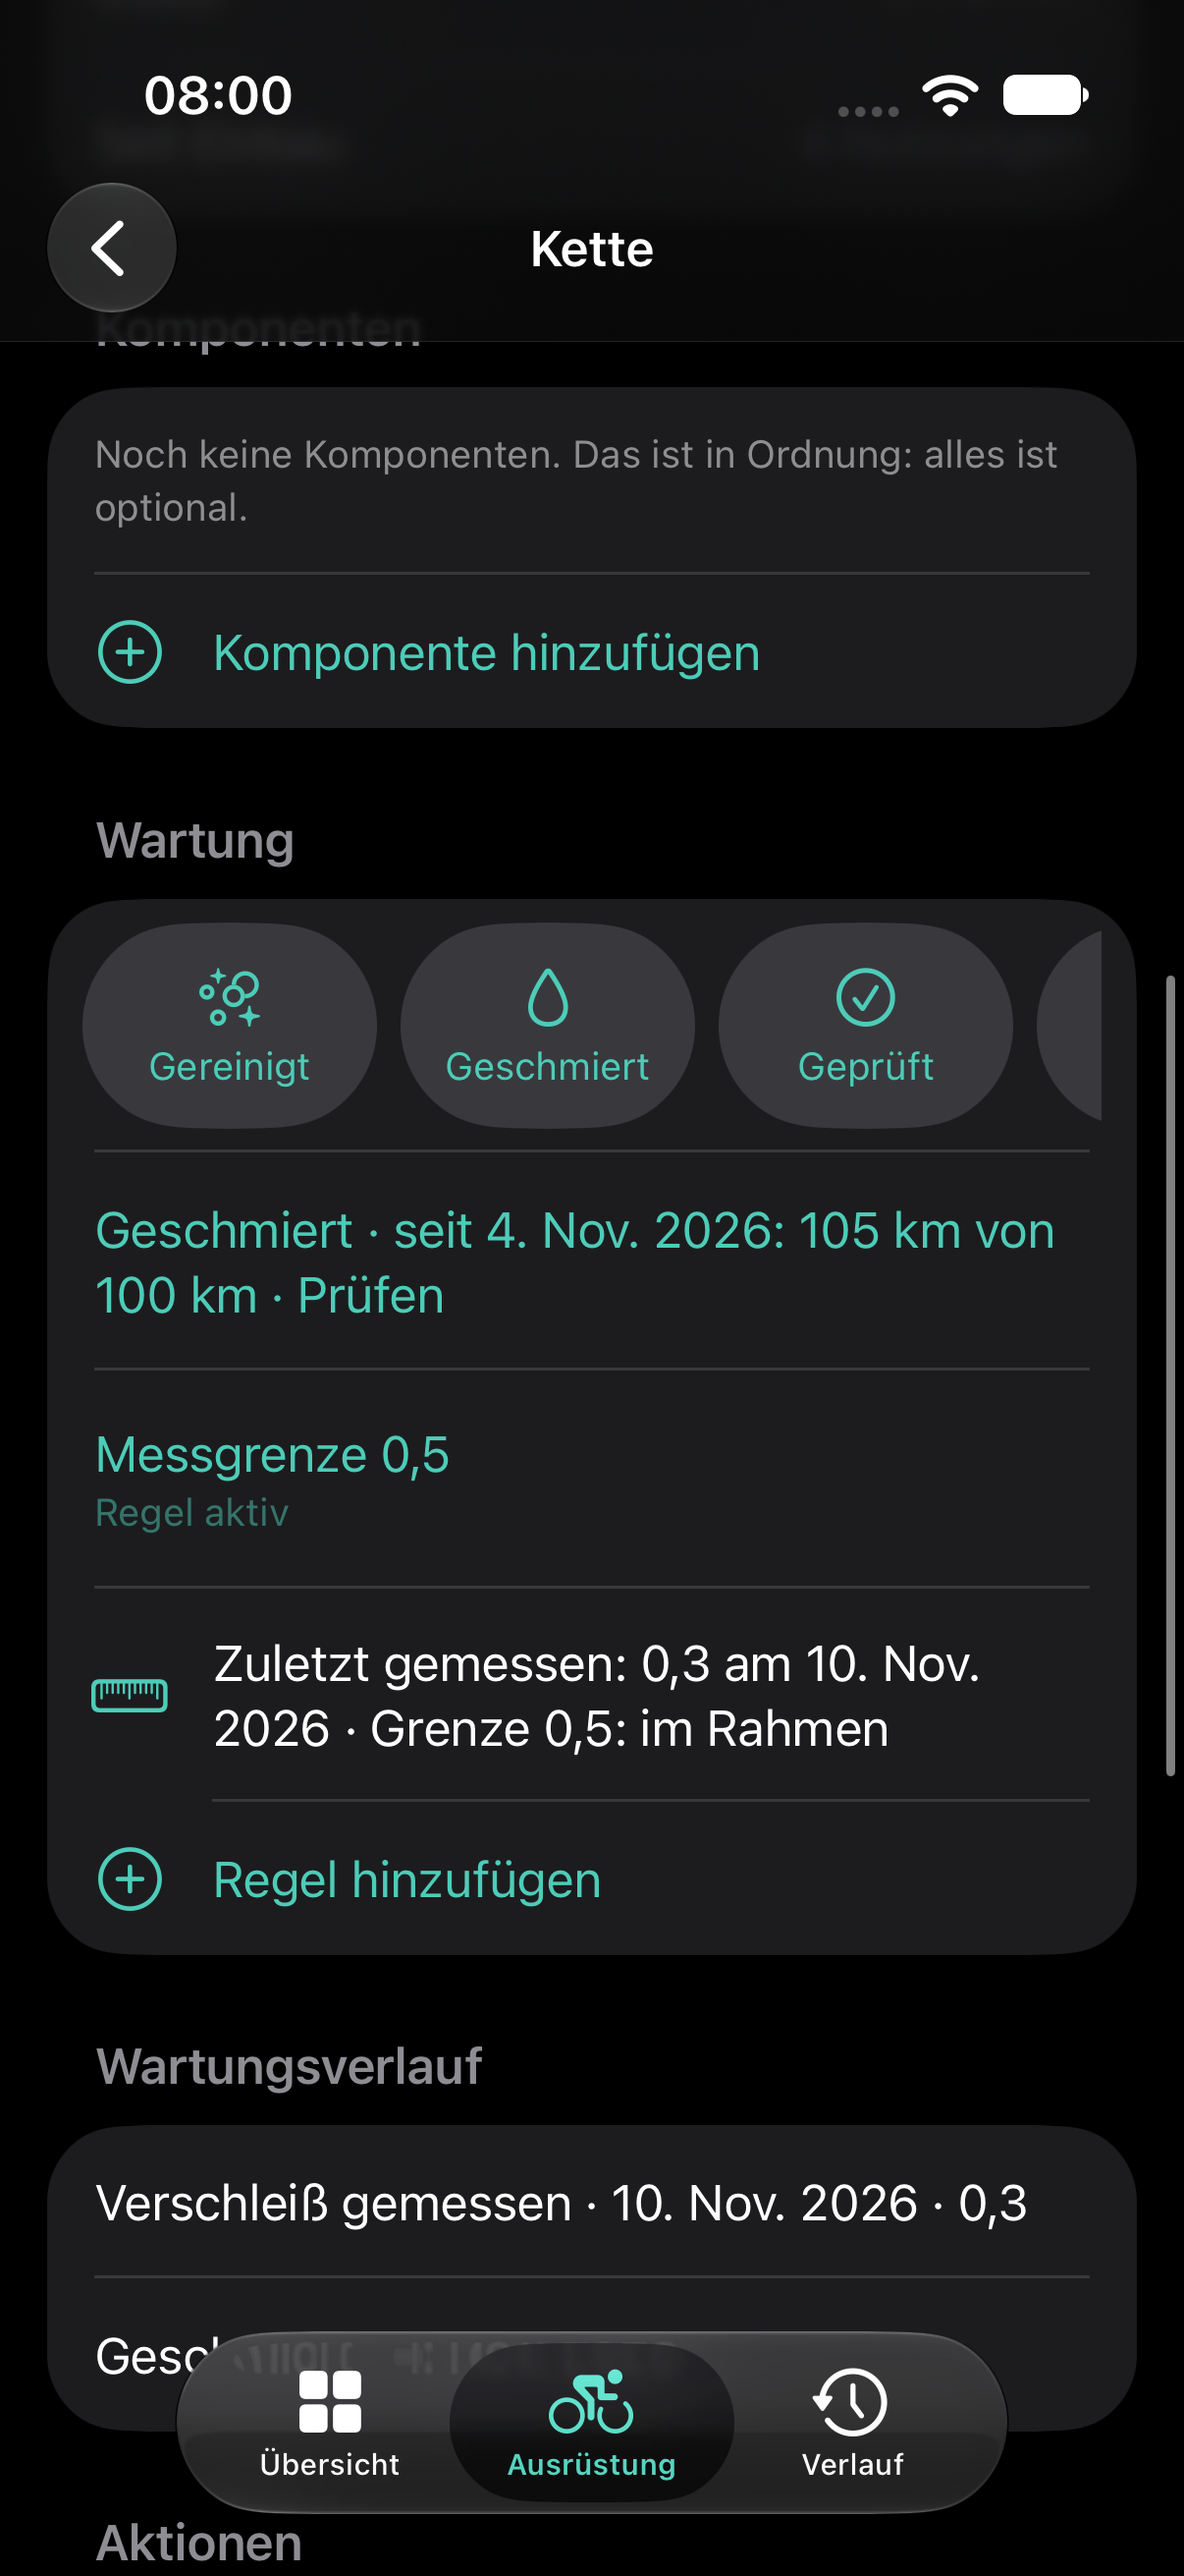
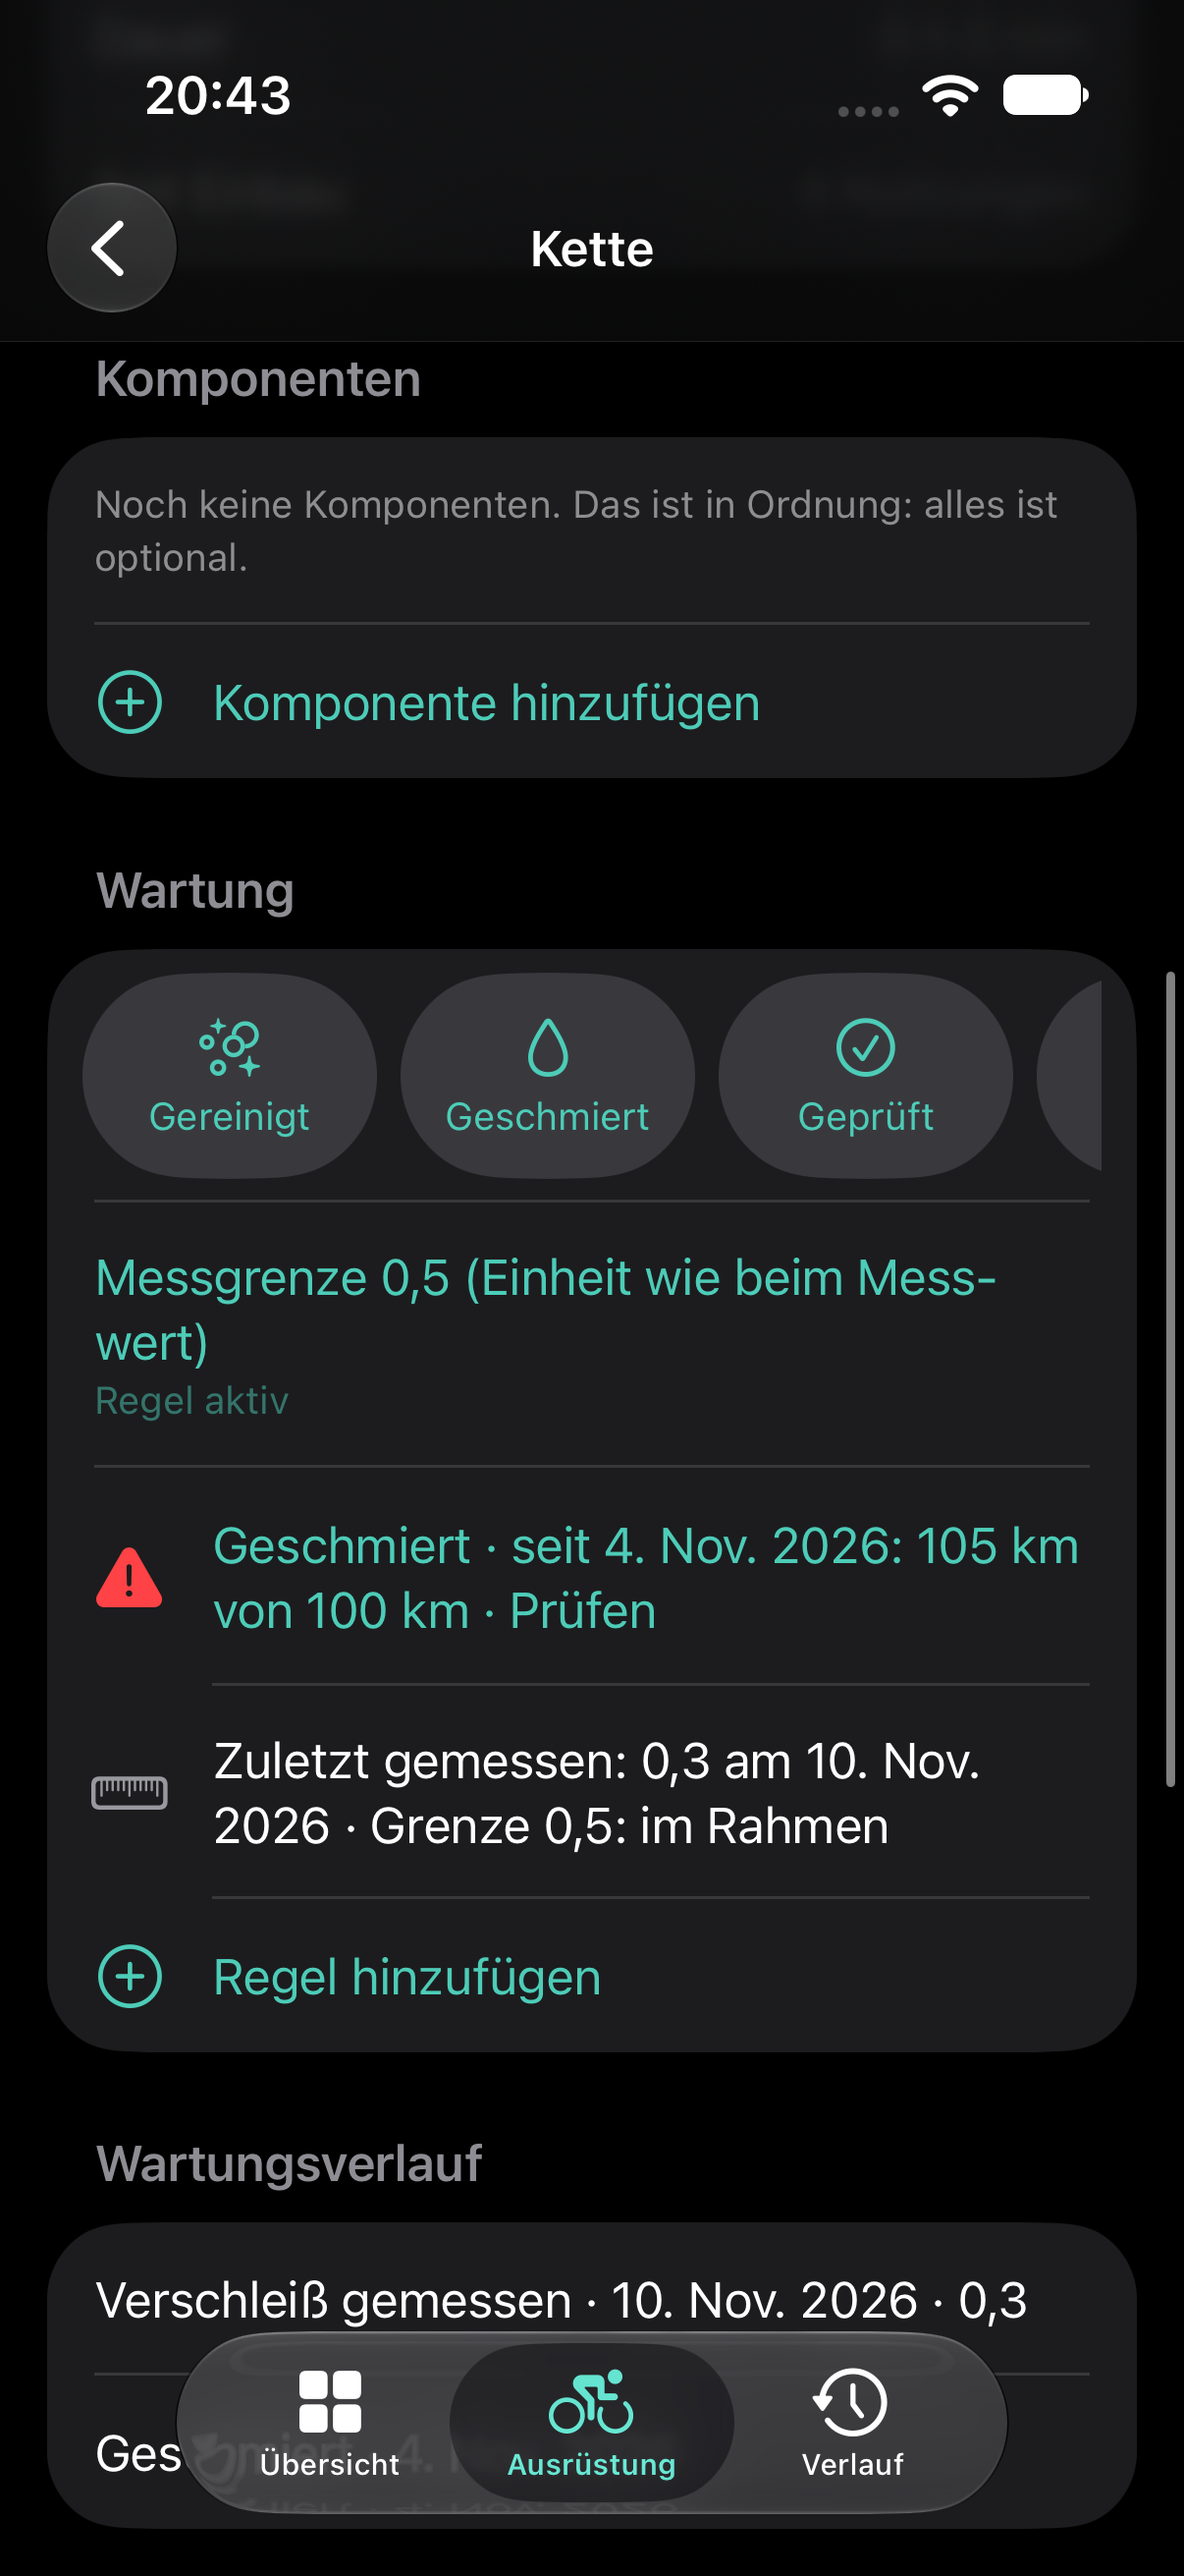
M5-Befunde: Screenshots hell/dunkel (Warnfarbe, Messgrenze, verschachtelter Pfad) und STATUS; TestFlight-Vorbereitung dokumentiert

Changed region(s): [[0.0307, 0.1236, 0.9818, 1.0], [0.1227, 0.0309, 0.2454, 0.0618], [0.9511, 0.2471, 0.9818, 0.278]]

diff --git a/AppUITests/ScreenshotUITests.swift b/AppUITests/ScreenshotUITests.swift
@@ -58,6 +58,20 @@ final class ScreenshotUITests: XCTestCase {
 
     /// M5: Komponenten, Wartung, Regel-/Messwert-Status, Hinweise (hell/dunkel stellt der Aufrufer ein).
     @MainActor
+    func testNestedScreens() {
+        let tag = ProcessInfo.processInfo.environment["SCREENSHOT_TAG"] ?? "light"
+        let app = launch("nested")
+        app.tabBars.buttons["Ausrüstung"].tapWhenReady()
+        app.buttons["gear.Canyon Endurace"].tapWhenReady()
+        XCTAssertTrue(app.buttons["component.Laufrad"].waitForExistence(timeout: 8))
+        app.tapRevealed(app.buttons["component.Laufrad"])
+        app.tapRevealed(app.buttons["component.Reifen"])
+        XCTAssertTrue(app.element(id: "installedIn").waitForExistence(timeout: 8))
+        XCTAssertTrue(app.element(id: "installedIn").label.contains("Canyon Endurace › Laufrad"))
+        shot(app, "\(tag)-m5-6-verschachtelt-pfad")
+    }
+
+    @MainActor
     func testMaintenanceScreens() {
         let tag = ProcessInfo.processInfo.environment["SCREENSHOT_TAG"] ?? "light"
         let app = launch("maintenance")

diff --git a/docs/STATUS.md b/docs/STATUS.md
@@ -1,7 +1,7 @@
 # Status und Übergabe
 
 **Stand:** 24.11.2026 · Quelle der Wahrheit für den Arbeitsstand, bei jeder Änderung mitpflegen.
-**Name: Eingelaufen** (Bundle-ID `de.linolaske.eingelaufen`). Kein App-Store-Connect-Eintrag, keine App-ID im Portal, keine Signierung mit Team (nur lokal für den Simulator).
+**Name: Eingelaufen** (Bundle-ID `de.linolaske.eingelaufen`). Internes TestFlight vorbereitet (24.11.): signiertes Archiv baut (`scripts/archive.sh`, Team-ID nur in gitignorierter `.signing.local`), Icon, Privacy Manifest, Export-Compliance (`ITSAppUsesNonExemptEncryption=NO`). **App-Eintrag in App Store Connect fehlt noch: legt Lino an (Frage auf Karte 45F13FE1).** Upload nur über `tools/testflight-upload.sh` nach Freigabe des Brains.
 
 ## Entscheidungen von Lino (21.11.2026)
 - **E-02:** Deployment Target **iOS 26+** (Swift 6, aktuelle SwiftData/ActivityKit).
@@ -19,6 +19,12 @@
 | App (M2) | **XcodeGen-Projekt `Eingelaufen`** (`project.yml`, iOS 26, Swift 6, SwiftUI/SwiftData): `SchemaV1` mit 18 Entitäten, `PersistenceActor` als einziger Schreiber, Outbox (at-least-once), Ausrüstung anlegen/umbenennen/einlagern/archivieren, manuelle Aktivität mit Zuordnung, Onboarding (3 Schritte, Health „Später“), 3 Tabs + Einstellungen. **App-Tests 40 in 7 Suiten grün, UI-Tests 10 grün (9 Abläufe + Screenshot-Lauf)**, Screenshots hell/dunkel/XXL in `docs/screenshots/m2/` angesehen. Aufruf: `scripts/test.sh core\|app\|ui`, `scripts/screenshots.sh`. |
 | M5 Komponenten und Wartung (24.11.) | **Kern** (`ComponentPlanner`, `QuickAction`/`MaintenanceEntry`, `MaintenanceEvaluator`): 207 Kern-Tests grün, T-02 im Kern und in der Persistenz (rückdatierter Tausch == Neuaufbau). **App**: Befehle im `PersistenceActor` (Komponente anlegen/montieren/ausbauen/umbauen/ersetzen, Wartung, Regeln), 52 App-Tests grün. **UI**: Komponenten-/Wartungsbereich im Detail (7 Schnellaktionen, Regeln, drei getrennte Statusarten, frühere Komponenten), Hinweise (max. 3) auf der Übersicht; `MaintenanceUITests` geschrieben; alle 10 Wartungs-UI-Tests grün, UI-Suite komplett **21 Tests grün** (24.11.). Screenshots hell/dunkel in `docs/screenshots/m5/` angesehen (`scripts/screenshots_m5.sh`). Abnahme durch Lino offen (Review auf der Karte). |
 | Board | Todolino-Unterprojekt `1F2204B9-850F-4A39-8A56-7232BE9C754F`, Repo-Schlüssel `local/sportausruestung` |
+
+## M5-Befunde (24.11., behoben)
+- Warnfarbe überfällig: rot/orange immer mit Symbol und Text (`DisplayNames.statusStyle`).
+- Verschachtelte Komponenten: „Verbaut in“ zeigt den Weg (`InstallationGraph.ancestors`), Nutzung läuft über alle Ebenen (App-Test + UI-Test, Fixture `nested`).
+- Einheit der Messgrenze: Text „Einheit wie beim Messwert“.
+- Stand: Kern 208, App 56, UI 22 grün; CI grün.
 
 ## Nächste Schritte
 1. **M1 `GearCore`**: Kern fertig, Abnahme durch Lino steht aus (Board M1/M1a/M1c). Bekannte Grenzen: der Reconciler übernimmt bei Ersatz (P-05) noch keine Segmente (kommt mit M3); Annahme P-09 (ein einziger verfügbarer Kandidat wird automatisch zugeordnet) ist von der Spec nicht gedeckt (6.2/17: automatisch nur explizite Regeln und Presets): `EnginePolicy.autoAssignSoleCandidate` steht seit dem Gegenreview auf **`false`**, der einzige Kandidat wird nur vorgeschlagen; die Option bleibt und wird nur auf Linos ausdrückliche Entscheidung eingeschaltet; Backup enthält kein Ledger (wird nach dem Wiederherstellen neu gebaut), `ImportCursor`/`AppSettings` gehören zur App.
